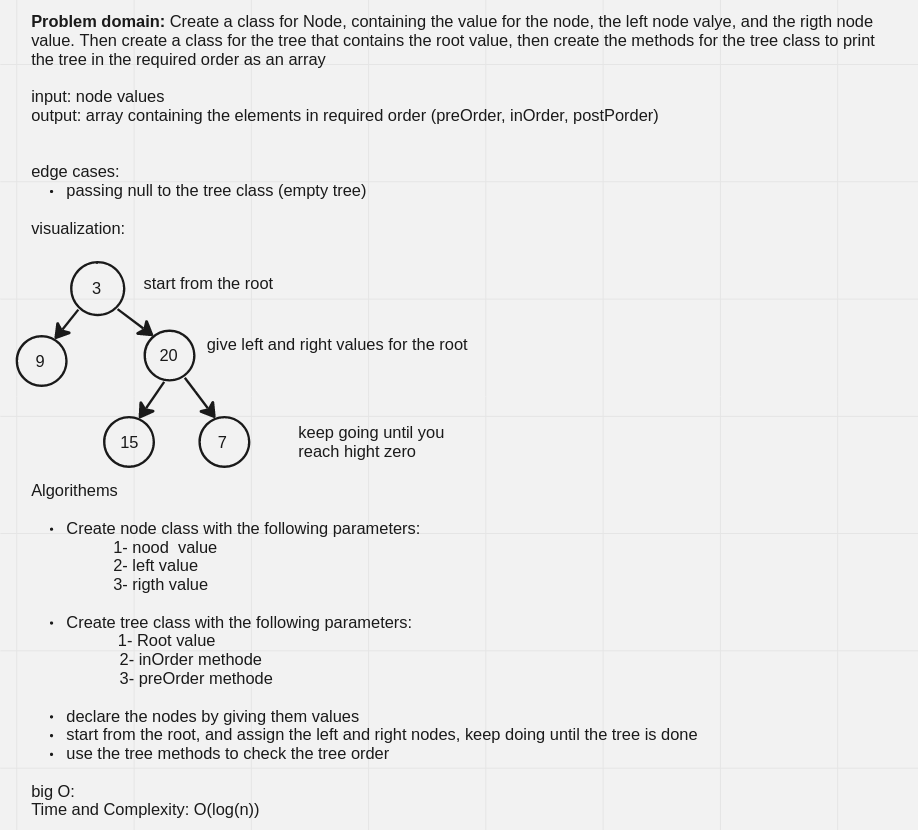
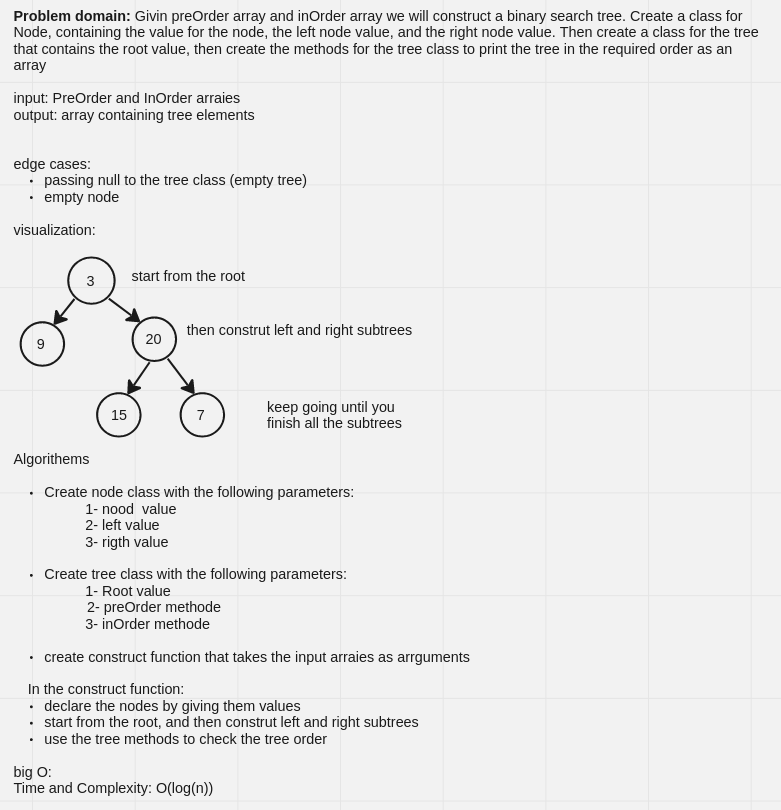
resolved tree challnge 1 and created new test

diff --git a/javascript/code-challenges/tree-challenges/challenge01/challenge01.js b/javascript/code-challenges/tree-challenges/challenge01/challenge01.js
@@ -46,36 +46,29 @@ class Tree {
   }
 }
 
-module.exports = { Node, Tree };
+const createTree = (preOrder, inOrder) => {
+  const construct = (preArray, inArray) => {
+    if (preArray.length === 0) return null;
+    let node = new Node(preArray[0]);
+    let nodeIdx = inArray.indexOf(preArray[0]);
+    node.left = construct(
+      preArray.slice(1, nodeIdx + 1),
+      inArray.slice(0, nodeIdx)
+    );
+    node.right = construct(
+      preArray.slice(nodeIdx + 1),
+      inArray.slice(nodeIdx + 1)
+    );
+    return node;
+  };
+  let root = construct(preOrder, inOrder);
+  let tree = new Tree(root);
+  return tree;
+};
 
-// Now we need to create a tree for each example
+let inputPreOrder = [3, 9, 20, 15, 7],
+  inputInOrder = [9, 3, 15, 20, 7]; // test
 
-// Example 1
-function tree1() {
-  let root = new Node(3);
-  let leftSubTree = new Node(9);
-  let rightSubTree = new Node(20);
-  let fifteen = new Node(15);
-  let seven = new Node(7);
+console.log(createTree(inputPreOrder, inputInOrder).inOrder());
 
-  root.left = leftSubTree;
-  root.right = rightSubTree;
-  rightSubTree.left = fifteen;
-  rightSubTree.right = seven;
-
-  let exampleTree1 = new Tree(root);
-  console.log("Example 1 preOrder", exampleTree1.preOrder());
-  console.log("Example 1 inOrder", exampleTree1.inOrder());
-  return exampleTree1;
-}
-
-// Example 2
-function tree2() {
-  let root = new Node(-1);
-  let exampleTree2 = new Tree(root);
-  console.log("Example 2 preOrder", exampleTree2.preOrder());
-  console.log("Example 2 inOrder", exampleTree2.inOrder());
-  return exampleTree2;
-}
-tree1();
-tree2();
+module.exports = { Node, Tree, createTree };

diff --git a/javascript/code-challenges/tree-challenges/challenge01/challenge01.test.js b/javascript/code-challenges/tree-challenges/challenge01/challenge01.test.js
@@ -1,9 +1,12 @@
 // Write your test here
 
-const { Node, Tree } = require('./challenge01.js');
+const { Node, Tree, createTree } = require('./challenge01.js');
 
 describe('Testing challenges', () => {
     test('Challenge 1 It should return an array of the values in the tree required order', () => {
+        let AutoCreate= createTree ([3, 9, 20, 15, 7], [9, 3, 15, 20, 7])
+
+        // to make sure it works fine, let's also create the tree manually
         let root = new Node(3);
         let leftSubTree = new Node(9);
         let rightSubTree = new Node(20);
@@ -15,15 +18,18 @@ describe('Testing challenges', () => {
         rightSubTree.left = fifteen;
         rightSubTree.right = seven;
         let tree1 = new Tree(root);
-        expect(tree1.preOrder()).toStrictEqual([3, 9, 20, 15, 7]);
-        expect(tree1.inOrder()).toStrictEqual([9, 3, 15, 20, 7]);
+
+        // now lets check
+        expect(tree1.preOrder()).toStrictEqual(AutoCreate.preOrder());
+        expect(tree1.inOrder()).toStrictEqual(AutoCreate.inOrder());
     });
     test('Challenge 2 It should return an array of the values in the tree required order', () => {
         let root = new Node(-1);
-       
+        let AutoCreate= createTree ([-1], [-1])
+
         let tree1 = new Tree(root);
-        expect(tree1.preOrder()).toStrictEqual([-1]);
-        expect(tree1.inOrder()).toStrictEqual([-1]);
+        expect(tree1.preOrder()).toStrictEqual(AutoCreate.preOrder());
+        expect(tree1.inOrder()).toStrictEqual(AutoCreate.inOrder());
     });
 })
         
